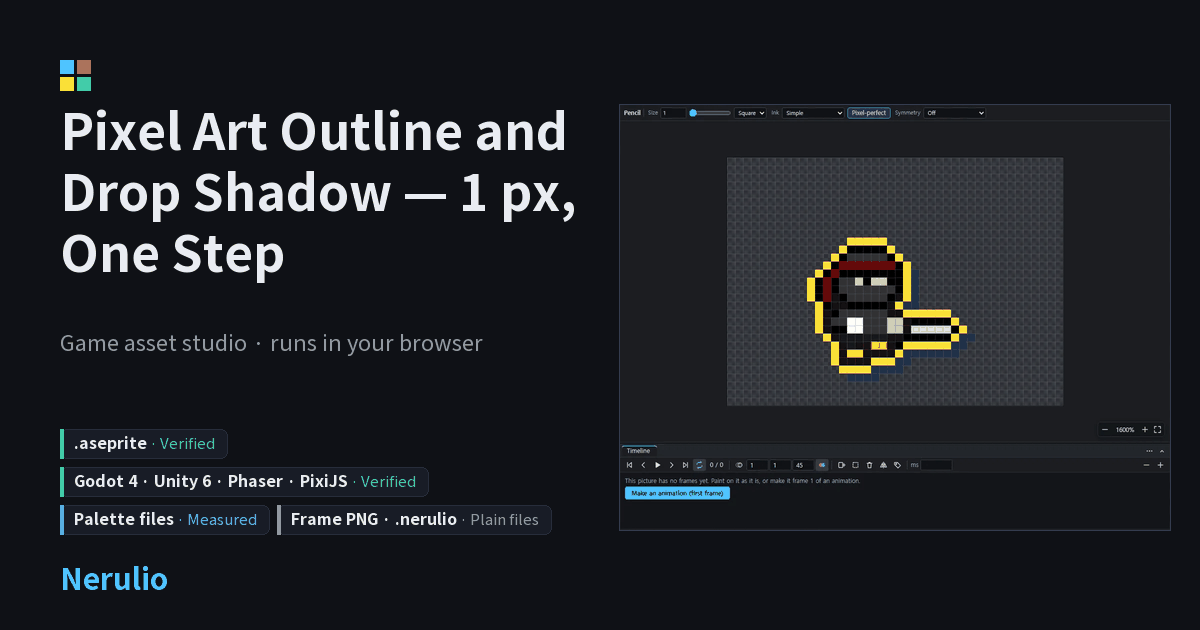
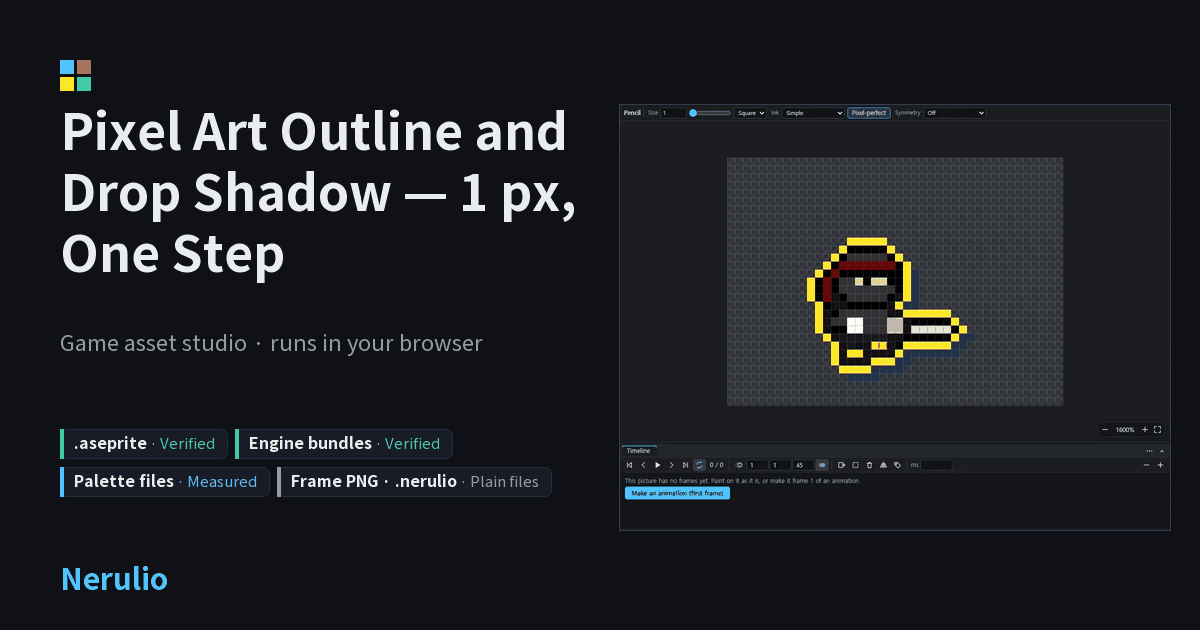
fix(seo): shorter engine badge on Pixel pages (no 390 px overflow with wide fonts)
Claude-Session: https://claude.ai/code/session_01XHRMpvsKswp1FuzCSszcbV

Changed region(s): [[0.0308, 0.6937, 0.4625, 0.8444], [0.7092, 0.4222, 0.74, 0.4524]]

diff --git a/src/game-seo.js b/src/game-seo.js
@@ -103,7 +103,7 @@ export const TEXTURE_EXPORTS=Object.freeze([
 export const PIXEL_EXPORTS=Object.freeze([
  {id:'aseprite',name:'.aseprite',files:'layers · blend · opacity · locked · indexed palette · frames · tags',status:'verified',engine:'Aseprite 1.3.18',note:L('The real Aseprite command line reopened the file as INDEXED with 2 layers, Multiply at opacity 160 and the locked layer not editable; the frames are pixel-identical.','실제 Aseprite 명령줄이 파일을 인덱스 모드, 레이어 2개, 불투명도 160의 곱하기, 편집 불가로 잠긴 레이어 그대로 다시 열었고 프레임 픽셀이 같았습니다.','実際のAsepriteコマンドラインで、インデックスモード・レイヤー2枚・不透明度160の乗算・編集不可のロックレイヤーのまま開き直し、フレームのピクセルも一致しました。')},
  {id:'palette',name:'Palette files',files:'.gpl · .pal · .hex · .ase · .act · .json',status:'measured',engine:'read back',note:L('Each format was written and read back identical; Aseprite\'s own .gpl, .pal, .hex and .act and a real Adobe .ase (16 colours) were read.','형식마다 쓰고 다시 읽어 같음을 확인했고, Aseprite가 만든 .gpl·.pal·.hex·.act와 실제 Adobe .ase(16색)를 읽었습니다.','各形式を書き出して読み戻し、一致を確認。Asepriteが書いた.gpl・.pal・.hex・.actと実際のAdobe .ase（16色）も読み込めました。')},
- {id:'engines',name:'Godot 4 · Unity 6 · Phaser · PixiJS',files:'through Pack & Export',status:'verified',engine:'Godot 4.7.2 · Unity 6000.5.3f1 · Phaser 3.90/4.2 · PixiJS 8.21',note:L('The sprite you drew is packed in Pack & Export; those engine files were loaded in each engine on real CC0 assets (47 of 49 runs pass; the 2 failures are a Phaser 3.90 bug the Phaser 3 preset avoids).','그린 스프라이트는 패킹·내보내기에서 묶습니다. 그 엔진 파일은 실제 CC0 에셋으로 각 엔진에서 불러와 확인했습니다(49회 중 47회 통과, 실패 2회는 Phaser 3 프리셋이 피하는 Phaser 3.90 버그).','描いたスプライトはパック＆書き出しでまとめます。そのエンジン用ファイルは実在のCC0アセットで各エンジンに読み込んで確認済み（49回中47回合格。失敗2回はPhaser 3プリセットで避けられるPhaser 3.90のバグ）。')},
+ {id:'engines',name:'Engine bundles',files:'Godot 4 · Unity 6 · Phaser 3/4 · PixiJS 8 … through Pack & Export',status:'verified',engine:'Godot 4.7.2 · Unity 6000.5',note:L('The sprite you drew is packed in Pack & Export; those engine files were loaded in each engine on real CC0 assets (47 of 49 runs pass; the 2 failures are a Phaser 3.90 bug the Phaser 3 preset avoids).','그린 스프라이트는 패킹·내보내기에서 묶습니다. 그 엔진 파일은 실제 CC0 에셋으로 각 엔진에서 불러와 확인했습니다(49회 중 47회 통과, 실패 2회는 Phaser 3 프리셋이 피하는 Phaser 3.90 버그).','描いたスプライトはパック＆書き出しでまとめます。そのエンジン用ファイルは実在のCC0アセットで各エンジンに読み込んで確認済み（49回中47回合格。失敗2回はPhaser 3プリセットで避けられるPhaser 3.90のバグ）。')},
  {id:'png',name:'Frame PNG · .nerulio',files:'PNG-8 with the palette when an indexed frame fits it · project file',status:'plain',engine:'',note:L('Plain files for any tool; no engine run is claimed for them.','어떤 도구에서도 쓰는 일반 파일이며, 엔진 실행 검증은 주장하지 않습니다.','どのツールでも使える通常ファイルで、エンジンでの検証は主張しません。')}
 ]);
 
